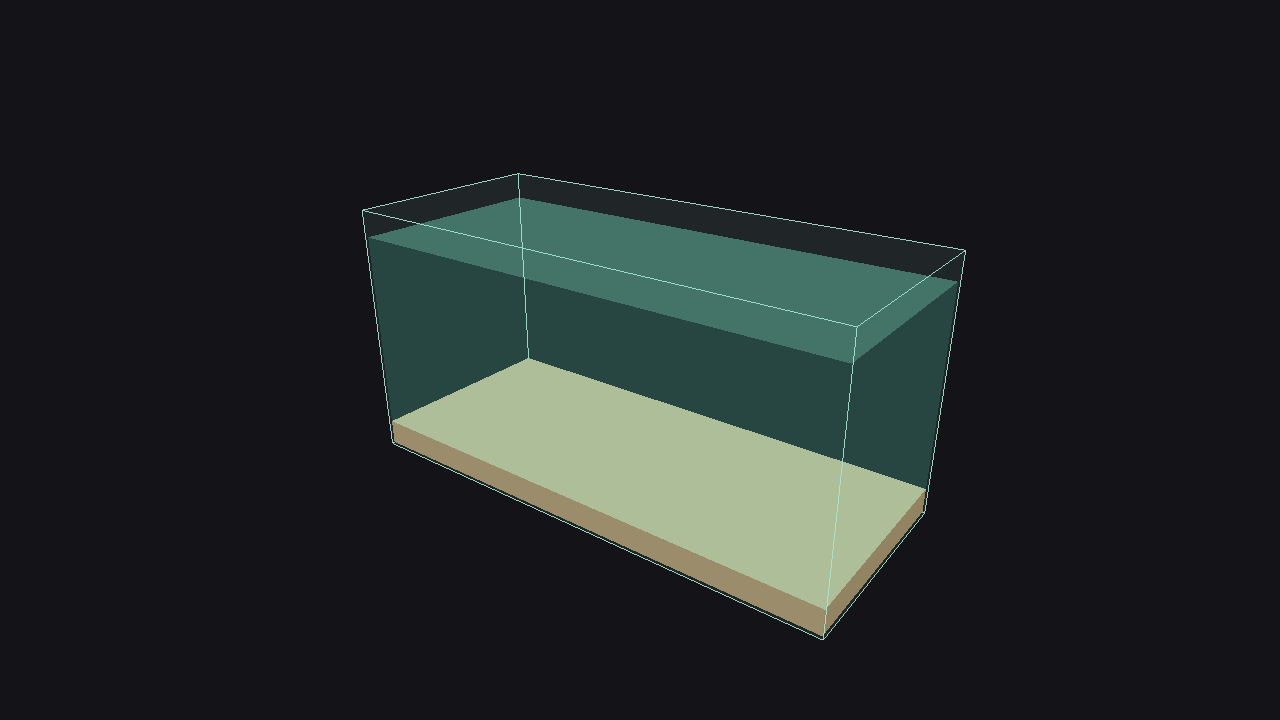
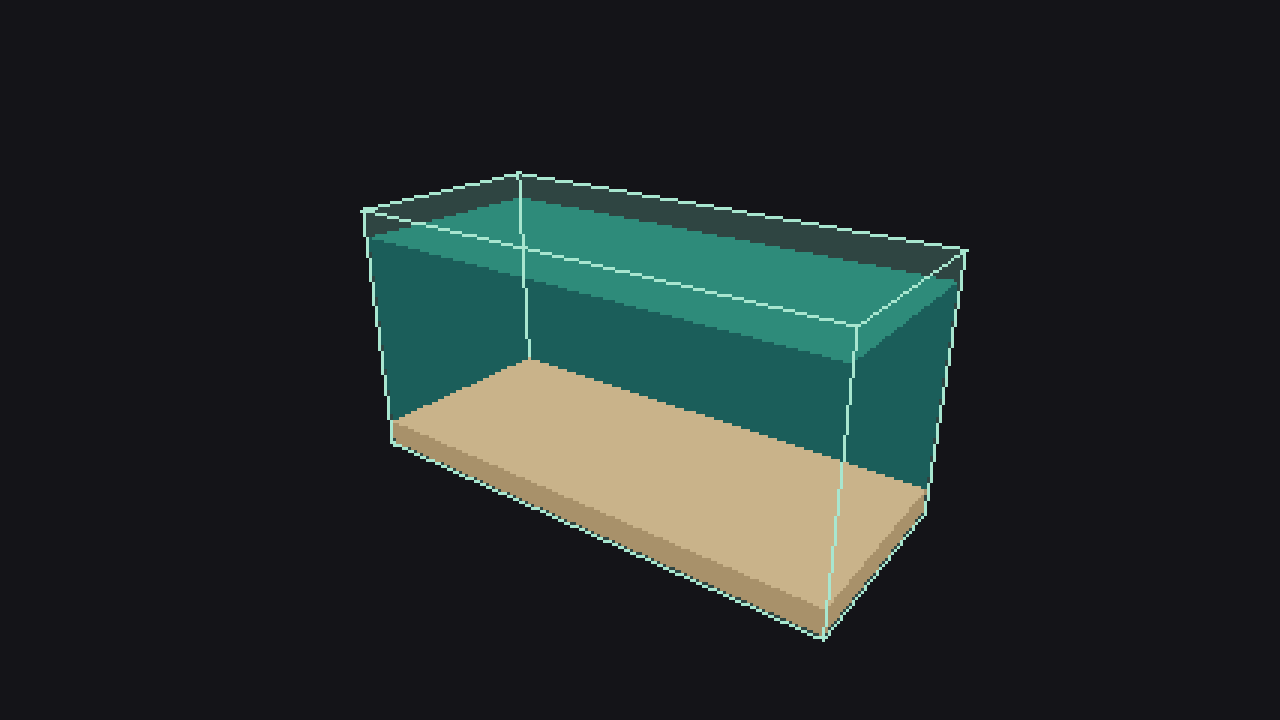
captures(2026-10-17): 5 angles

Changed region(s): [[0.2812, 0.2444, 0.75, 0.8861]]

diff --git a/captures/latest/SOURCE.md b/captures/latest/SOURCE.md
@@ -1,14 +1,17 @@
-# Captures de la nuit 2026-10-16
+# Captures de la nuit 2026-10-17
 
 | Champ | Valeur |
 |---|---|
-| Branche | `nuit/2026-10-16-prng-pas-fixe` |
-| PR | #15 |
-| Commit (code applicatif) | `b8c7435` (le commit QA `9944979` n'ajoute que des tests e2e) |
+| Branche | `nuit/2026-10-17-pipeline-pixel-art` |
+| PR | #17 |
+| Commit (code applicatif) | `641a257` (le commit QA `878acd9` n'ajoute que des tests e2e) |
 | Graine | 42 |
-| Temps | 30 s (monde avancé de 1800 pas avant « prêt » ; aucune entité, donc aucun effet visible) |
+| Temps | 30 s |
 | Rendu | Chromium sans GPU (SwiftShader), 1280 × 720, pixel ratio 1 |
 | Commande | `CAPTURE_DIR=… npm run captures` |
 
-Images identiques octet pour octet (md5) à la série précédente (`2026-10-15`) : attendu, la PR
-n'ajoute aucun élément visible.
+Première série en pixel art : cible basse résolution (`PIXEL_SIZE = 3`) et passe palette.
+Contrôle par script : 0 couleur hors des 34 couleurs de `render/palette.ts`, 0 pixel hors
+d'un bloc 3 × 3 uniforme, sur les 5 angles (5 à 7 couleurs par image). Le sable retrouve
+`sable` #c9b38a (il tirait au vert-gris dans la série 2026-10-16). Le dossier `dev/` contient
+les captures jointes par Dev à la PR.

diff --git a/captures/2026-10-17/SOURCE.md b/captures/2026-10-17/SOURCE.md
@@ -1,0 +1,17 @@
+# Captures de la nuit 2026-10-17
+
+| Champ | Valeur |
+|---|---|
+| Branche | `nuit/2026-10-17-pipeline-pixel-art` |
+| PR | #17 |
+| Commit (code applicatif) | `641a257` (le commit QA `878acd9` n'ajoute que des tests e2e) |
+| Graine | 42 |
+| Temps | 30 s |
+| Rendu | Chromium sans GPU (SwiftShader), 1280 × 720, pixel ratio 1 |
+| Commande | `CAPTURE_DIR=… npm run captures` |
+
+Première série en pixel art : cible basse résolution (`PIXEL_SIZE = 3`) et passe palette.
+Contrôle par script : 0 couleur hors des 34 couleurs de `render/palette.ts`, 0 pixel hors
+d'un bloc 3 × 3 uniforme, sur les 5 angles (5 à 7 couleurs par image). Le sable retrouve
+`sable` #c9b38a (il tirait au vert-gris dans la série 2026-10-16). Le dossier `dev/` contient
+les captures jointes par Dev à la PR.
